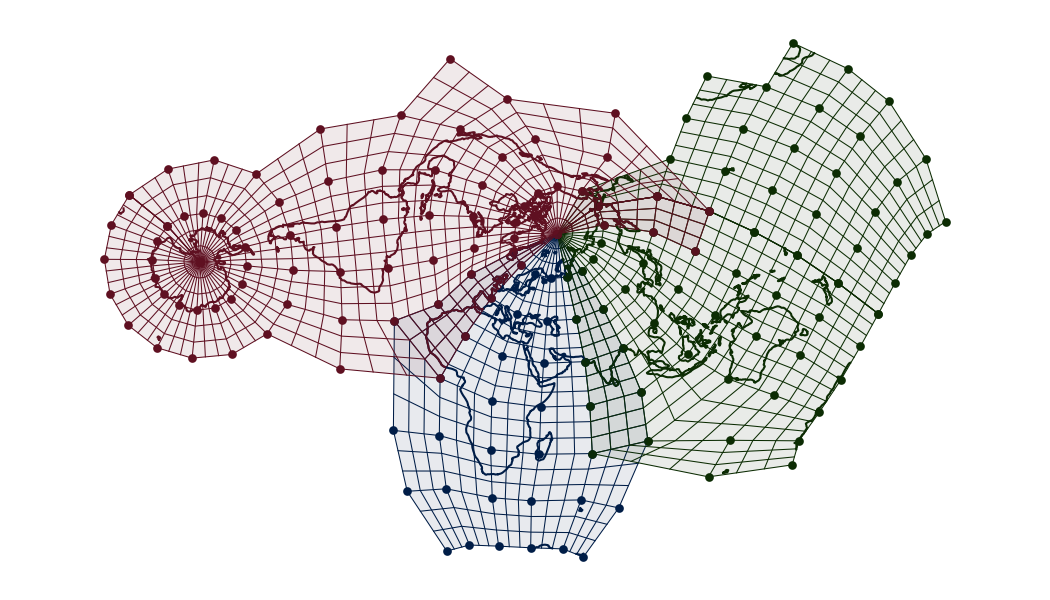
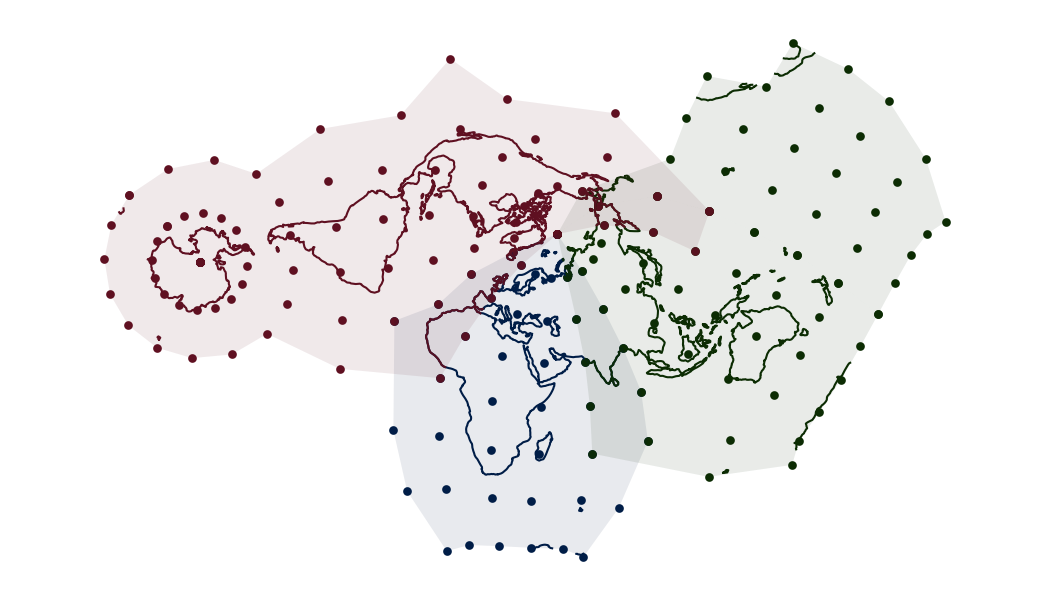
clipped mesh images
I updated the diagrams to show how the bounaries clip out the edge of each section's projection.  I'm quite happy with it.  as a related asthetic note, I also removed graticules from the full world map, because figure 3 was just too crowded.

Changed region(s): [[0.0914, 0.09, 0.9143, 0.93]]

diff --git a/src/draw_diagrams.py b/src/draw_diagrams.py
@@ -10,7 +10,6 @@ import h5py
 import numpy as np
 from matplotlib import pyplot as plt
 from matplotlib.axes import Axes
-from matplotlib.collections import PatchCollection
 from matplotlib.patches import Polygon
 from matplotlib.ticker import MultipleLocator
 from scipy.interpolate import RegularGridInterpolator
@@ -49,7 +48,7 @@ def draw_diagrams():
 	fig, ax = plt.subplots(1, 1, figsize=(7, 4))
 	for index, color in enumerate(["#001D47", "#0C2C03", "#5F1021"]):
 		draw_section(ax, mesh, index, color,
-		             nodes=True, boundary=False, shading=True, graticule=True, coastlines=True)
+		             nodes=True, boundary=False, shading=True, graticule=False, coastlines=True)
 	ax_right.set_xlabel("x (at 1:100M scale)")
 	ax_right.set_ylabel("y (at 1:100M scale)", labelpad=11, rotation=-90)
 	set_ticks(ax_right, spacing=5, fmt="{x:.0f} cm", y_ticks_on_right=True)
@@ -66,7 +65,7 @@ def draw_diagrams():
 	fig, ax = plt.subplots(1, 1, figsize=(7, 4))
 	for index, color in enumerate(["#001D47", "#0C2C03", "#5F1021"]):
 		draw_section(ax, mesh, index, color,
-		             nodes=True, boundary=True, shading=True, graticule=True, coastlines=True)
+		             nodes=True, boundary=True, shading=True, graticule=False, coastlines=True)
 	ax_right.set_xlabel("x (at 1:100M scale)")
 	ax_right.set_ylabel("y (at 1:100M scale)", labelpad=11, rotation=-90)
 	set_ticks(ax_right, spacing=5, fmt="{x:.0f} cm", y_ticks_on_right=True)
@@ -113,18 +112,18 @@ def draw_section(ax: Axes, mesh: Mesh, section_index: int, color: str,
 		for i_boundary, j_boundary in boundaries:
 			boundary_polygon = Polygon(mesh.nodes[section_index, i_boundary, j_boundary, :])
 			boundary_polygons.append(boundary_polygon)
-	patch_collection = PatchCollection(boundary_polygons)
-	ax.add_collection(patch_collection)
-	if boundary:
-		patch_collection.set_edgecolor("#000000")
-		patch_collection.set_linewidth(2.0)
-	else:
-		patch_collection.set_edgecolor("none")
-	if shading:
-		patch_collection.set_facecolor(color + "17")
-	else:
-		patch_collection.set_facecolor("none")
-	patch_collection.set_zorder(40)
+	for boundary_polygon in boundary_polygons:
+		ax.add_patch(boundary_polygon)
+		if boundary:
+			boundary_polygon.set_edgecolor("#000000")
+			boundary_polygon.set_linewidth(2.0)
+		else:
+			boundary_polygon.set_edgecolor("none")
+		if shading:
+			boundary_polygon.set_facecolor(color + "17")
+		else:
+			boundary_polygon.set_facecolor("none")
+		boundary_polygon.set_zorder(40)
 
 	if nodes:
 		ax.scatter(mesh.nodes[section_index, :, :, 0], mesh.nodes[section_index, :, :, 1],
@@ -138,17 +137,23 @@ def draw_section(ax: Axes, mesh: Mesh, section_index: int, color: str,
 					weited_nodes = weit*nodes[:, j - 1, :] + (1 - weit)*nodes[:, j, :]
 				else:
 					weited_nodes = nodes[:, j, :]
-				ax.plot(weited_nodes[:, :, 0], weited_nodes[:, :, 1],
-				        color=color, linewidth=0.5, zorder=10)  # TODO: mask to projected_boundary
+				lines = ax.plot(weited_nodes[:, :, 0], weited_nodes[:, :, 1],
+				                color=color, linewidth=0.5, zorder=10)
+				if boundary:
+					for coastline in lines:
+						coastline.set_clip_path(boundary_polygons[0])
 
 	if coastlines:
 		project = RegularGridInterpolator([mesh.ф, mesh.λ], mesh.nodes[section_index, :, :, :],
 		                                  bounds_error=False, fill_value=None)
 		coastlines = load_coastline_data(reduction=1)
-		for line in coastlines:
-			projected_line = project(line)
-			ax.plot(projected_line[:, 0], projected_line[:, 1],
-			        color, linewidth=1.0, zorder=20)  # TODO: mask to projected_boundary
+		for coastline in coastlines:
+			projected_coastline = project(coastline)
+			lines = ax.plot(projected_coastline[:, 0], projected_coastline[:, 1],
+			                color, linewidth=1.0, zorder=20)
+			if boundary:
+				for line in lines:
+					line.set_clip_path(boundary_polygons[0])
 
 	ax.axis("equal")
 
